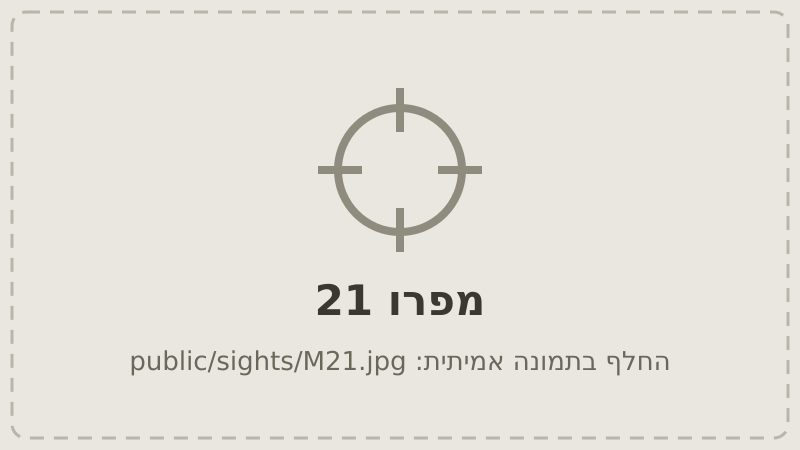
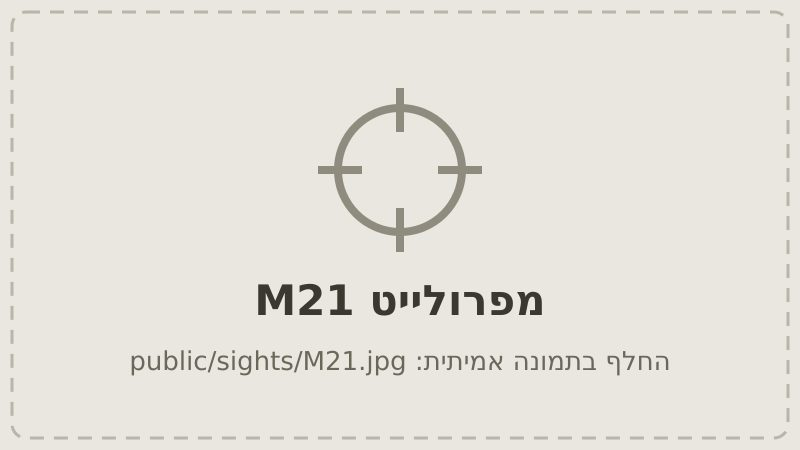
Set Meprolight M21 click value from the manufacturer spec
Rename "מפרו 21" to "מפרולייט M21" and replace the 0.7cm estimate with
the official Mepro 21 user-manual spec: 1 click = 0.5 mrad (~1.7 MOA) =
1.25cm at 25m. The manual also confirms the reflex turn semantics
already shipped (windage clockwise toward the R arrow moves impact
right); instructions updated accordingly and the profile now carries the
green "לפי מפרט" badge instead of "משוער".

The old name and estimated values are added to the legacy-override
cleanup (migration key bumped so it re-runs once on devices that froze
them), and the M21 placeholder image carries the new name.

79 unit tests, build, and all three e2e suites pass.

Claude-Session: https://claude.ai/code/session_01FeEqsZ3ADiAEBYurvwrExk

Changed region(s): [[0.3125, 0.6222, 0.6875, 0.7156]]

diff --git a/src/data/defaultProfiles.ts b/src/data/defaultProfiles.ts
@@ -29,6 +29,19 @@ export const LEGACY_DEFAULT_VALUES: Record<string, Partial<SightProfile>[]> = {
     { elevationCmPerClick: 0.7, windageCmPerClick: 0.7 },
     { notes: 'ערך משוער — מומלץ לאמת מול הוראות הכוונת' },
   ],
+  'mepro-21': [
+    { name: 'מפרו 21' },
+    { elevationCmPerClick: 0.7, windageCmPerClick: 0.7 },
+    {
+      notes: 'ערך משוער — מומלץ לאמת מול הוראות הכוונת',
+      instructions: {
+        up: 'סובב את בורג הגובה בכיוון UP',
+        down: 'סובב את בורג הגובה נגד כיוון UP',
+        left: 'סובב את בורג הצד בכיוון L',
+        right: 'סובב את בורג הצד בכיוון R',
+      },
+    },
+  ],
 }
 
 function stripMatching(
@@ -98,19 +111,20 @@ export const DEFAULT_PROFILES: SightProfile[] = [
   },
   {
     id: 'mepro-21',
-    name: 'מפרו 21',
+    name: 'מפרולייט M21',
     kind: 'reflex',
     builtIn: true,
-    elevationCmPerClick: 0.7,
-    windageCmPerClick: 0.7,
+    // Mepro 21 manual: 1 click = 0.5 mrad (≈1.7 MOA) = 1.25cm at 25m
+    elevationCmPerClick: 1.25,
+    windageCmPerClick: 1.25,
     instructions: {
       up: 'סובב את בורג הגובה בכיוון UP',
       down: 'סובב את בורג הגובה נגד כיוון UP',
-      left: 'סובב את בורג הצד בכיוון L',
-      right: 'סובב את בורג הצד בכיוון R',
+      left: 'סובב את בורג הצד נגד כיוון R',
+      right: 'סובב את בורג הצד בכיוון R (עם כיוון השעון)',
     },
     desiredImpactOffsetCm: { right: 0, up: 0 },
-    notes: ESTIMATED,
+    notes: 'לפי מפרט היצרן: 0.5 מיל (≈1.7 MOA) לקליק = 1.25 ס״מ ב־25 מ׳',
   },
   {
     id: 'm16a2-iron',

diff --git a/src/core/__tests__/overrides.test.ts b/src/core/__tests__/overrides.test.ts
@@ -46,12 +46,38 @@ describe('stripRedundantOverride', () => {
   })
 })
 
-describe('M5 default reflects the manufacturer spec', () => {
-  it('0.5 MOA per click ≈ 0.36cm at 25m', () => {
+describe('Meprolight defaults reflect the manufacturer specs', () => {
+  it('M5: 0.5 MOA per click ≈ 0.36cm at 25m', () => {
     const m5 = DEFAULT_PROFILES.find((p) => p.id === 'mepro-reflex')!
     expect(m5.name).toBe('מפרולייט M5')
     expect(m5.elevationCmPerClick).toBeCloseTo(0.36, 2)
     expect(m5.windageCmPerClick).toBeCloseTo(0.36, 2)
+  })
+
+  it('M21: 0.5 mrad per click = 1.25cm at 25m', () => {
+    const m21 = DEFAULT_PROFILES.find((p) => p.id === 'mepro-21')!
+    expect(m21.name).toBe('מפרולייט M21')
+    expect(m21.elevationCmPerClick).toBeCloseTo(1.25, 2)
+    expect(m21.windageCmPerClick).toBeCloseTo(1.25, 2)
+    expect(m21.notes?.startsWith('לפי מפרט')).toBe(true)
+  })
+})
+
+describe('M21 legacy override cleanup', () => {
+  it('drops the pre-rename name and old estimated clicks', () => {
+    expect(
+      stripLegacyOverride('mepro-21', {
+        name: 'מפרו 21',
+        elevationCmPerClick: 0.7,
+        windageCmPerClick: 0.7,
+      }),
+    ).toEqual({})
+  })
+
+  it('keeps deliberate custom values', () => {
+    expect(stripLegacyOverride('mepro-21', { elevationCmPerClick: 1.0 })).toEqual({
+      elevationCmPerClick: 1.0,
+    })
   })
 })
 

diff --git a/src/state/profilesStore.ts b/src/state/profilesStore.ts
@@ -7,7 +7,8 @@ import {
 } from '../data/defaultProfiles'
 import { loadStore, saveStore } from '../data/storage'
 
-const LEGACY_CLEANUP_KEY = 'fastzero.migration.legacy-overrides-1'
+// Bumped when LEGACY_DEFAULT_VALUES grows so the (idempotent) cleanup re-runs.
+const LEGACY_CLEANUP_KEY = 'fastzero.migration.legacy-overrides-2'
 
 /**
  * One-time cleanup: drop override fields frozen from old shipped defaults
